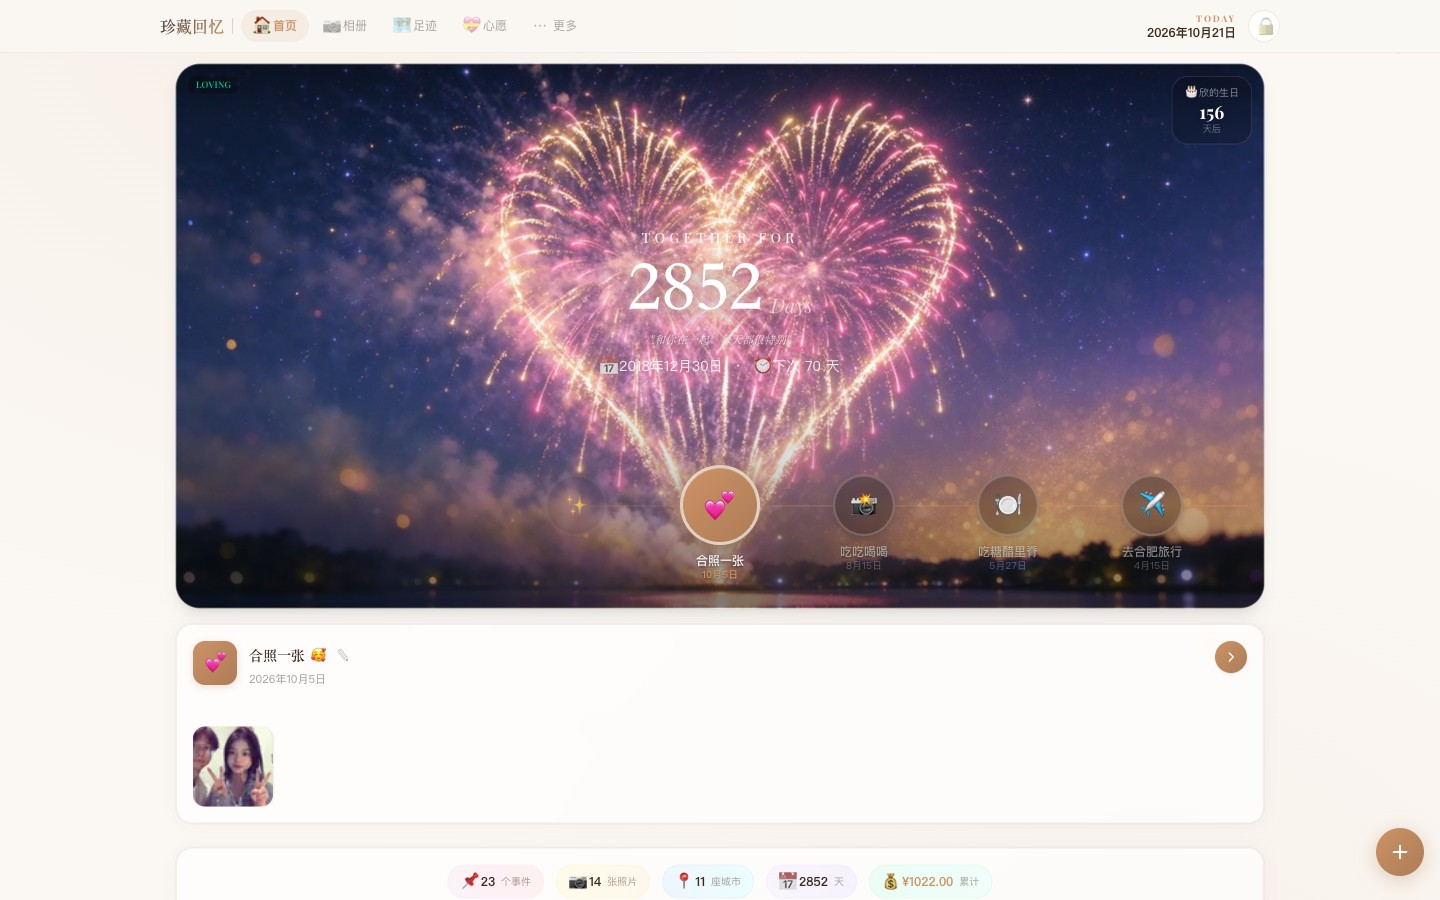
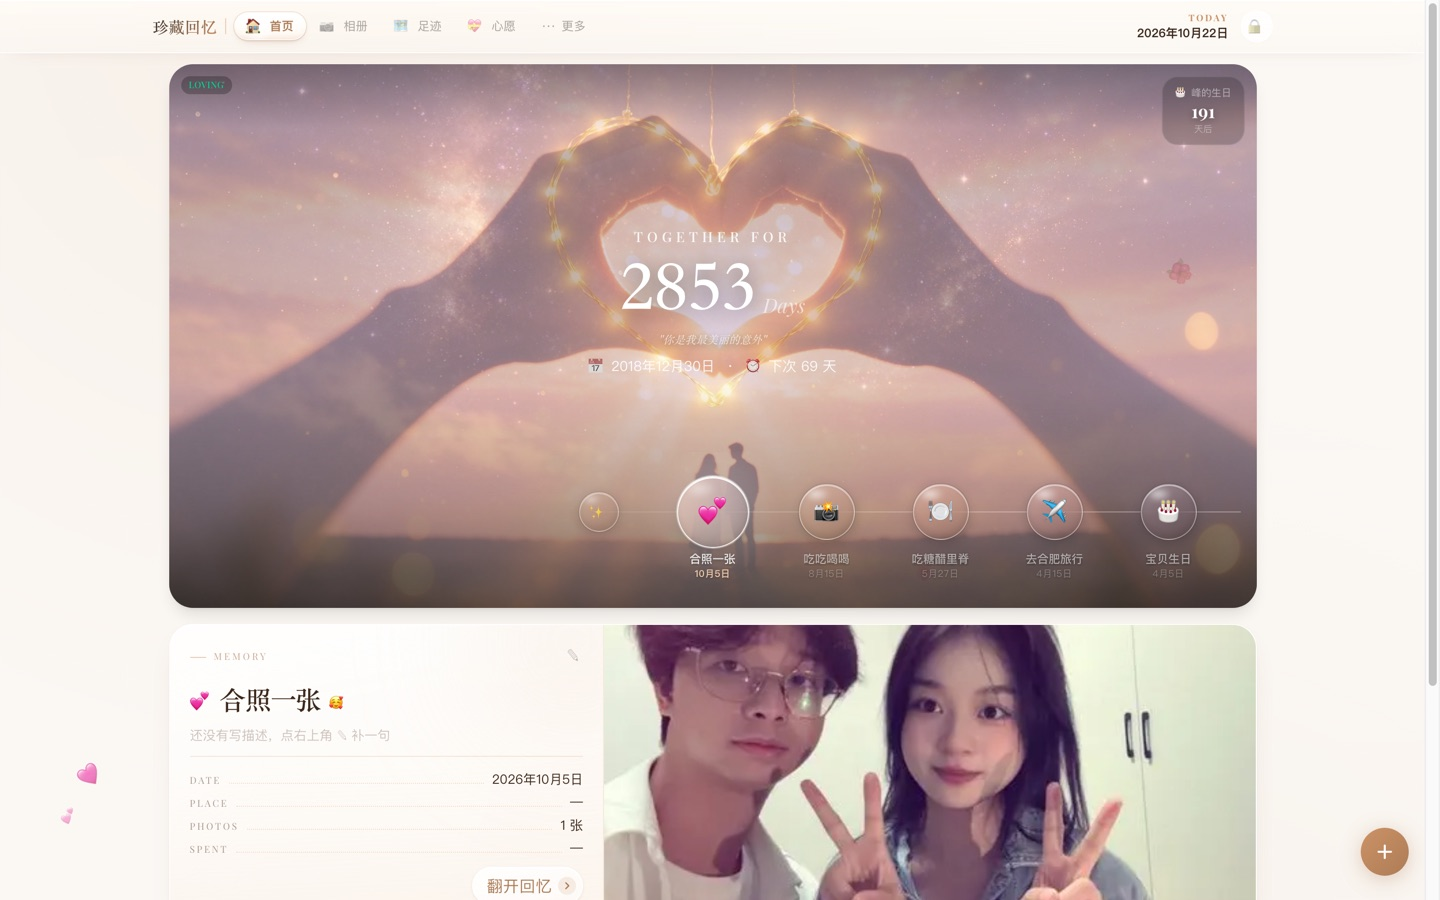
docs: 设计决策入库，补备份与回滚流程，首页截图换新版
- DESIGN-NOTES：新增第二~五轮（玻璃节点 / 卡片等高 / 弹窗 / 统计栏）决策记录，
  统计栏把被否掉的三版（一上一下 / 暖色渐变条 / 彩色方块）连同否决理由一起记下；
  补两处踩坑：mask 会建立 backdrop root 让 backdrop-filter 失效、
  伪元素高光会盖住 emoji
- AGENTS：部署章节补「备份与回滚」——三份快照 + 镜像回滚标签、
  rsync 先 -n 空跑核对删除清单、三档回滚命令、禁忌清单；
  记下这台机器只有连字符的 docker-compose，没有 docker compose 插件
- README 首页截图换成当前版本（390 / 1440）

diff --git a/docs/DESIGN-NOTES.md b/docs/DESIGN-NOTES.md
@@ -52,3 +52,150 @@
 - 存储决策：~~留 OSS~~ **2026-10-21 再改：迁 `public/hero/` 静态自托管**——产品视角下默认资产不能依赖作者私有 OSS，否则别人部署开箱即残缺；判断口诀追加："作为产品分发的默认资产→仓库，实例自己的数据→宿主存储"。OSS hero/ 副本已删，唯一真源=仓库
 - 无 OSS 降级：上传接口已自带本地落盘 fallback（`public/uploads/` + Next 静态服务 + docker 卷挂载），无 OSS 环境整站可用，无需改动
 - 旧 OSS 封面 `hero/1-6.jpg` 已由用户手动删除；线上设置里若隐藏过旧封面，URL 失配会全部重新显示，需在设置页重新隐藏
+
+## 首页时间轴节点 + 事件卡照片（2026-10-22 已改，未提交）
+
+用户对封面满意，只要求治两处：时间轴节点「有点 low」、事件卡照片「有时多有时少不好看」。以下为拍板口径。
+
+**时间轴（`components/HorizontalTimeline.tsx`）**
+
+- emoji **保留**——事件卡下面要放照片，节点里再放照片会重复（曾提议换照片/Lucide，被否）
+- 选中态：~~橙色渐变 + 3px 白边 + 24px 橙光 + pulse~~ → **暖白实底** `rgba(255,252,247,.94)` + 一圈 1px 白环 + 5px 淡光环；未选中：`rgba(255,255,255,.12)` + 1px `rgba(255,255,255,.22)`
+- 尺寸 56 / 72（原 62 / 80），emoji 24 / 30；过渡统一 `280ms cubic-bezier(.2,.8,.2,1)`，删掉无限 pulse
+- **节点槽固定 72px 高并垂直居中**——尺寸变化时下方文字基线不动（原来选中会把标题往下顶 9px）
+- 连接线：两根（1.5px 渐变 + 8px 模糊光晕）→ **单根 1px**，去掉光晕
+- 年份标记：橙色渐变圆 → **深色小药丸**（描边 + 半透明底），读作分隔而非事件
+- 轨道两端加 `.lm-edge-fade-x`（26px 遮罩淡出），暗示可滑
+
+**事件卡照片（`components/EventPreviewCard.tsx`）**
+
+首页只放「封面级」少量照片，其余交给相册。**所有格子 `object-cover`，只裁不拉伸**（"一大两小"方案因拉伸被否）。
+
+| 张数 | 移动端 | 桌面端 |
+|:--|:--|:--|
+| 0 | 虚线「添加照片」按钮 | 同左 |
+| 1 | 满宽 16:9 | 满宽 16:9，`max-h-300` 封顶 |
+| 2 | 对半 4:3 | 2 列 1:1 |
+| 3+ | 3 列 1:1，第 3 张盖 `+N` 角标 | 按张数自适应 1~4 列（4/5-6/7+ 分别 4/3/4 列），最多 7 张 |
+
+- 桌面端 n > 7 时第 8 格是「全部 N 张 / 查看相册 →」入口
+- 桌面端布局改为**左文右图**（左 36%，`md:justify-center` 垂直居中），移动端自动叠回单列
+- 列数按张数挑选，是为了避免"4 列铺满 + 最后一行只剩 1 格"的孤格
+
+## 第二轮：玻璃节点 / 卡片等高 / 两个弹窗（2026-10-22 已改，未提交）
+
+### 时间轴节点 = 磨砂玻璃（`HorizontalTimeline.tsx`）
+
+用户要的是**圆点**的玻璃感，不是卡片的。做法：多层白色渐变（左上薄→右下带一点暖黑）+ `backdrop-filter: blur(18-20px) saturate(1.6-1.85) brightness(0.98/1.14)` + 1px 亮边 + `inset 0 1px 0` 内高光 + 左下镜面高光点（`Glint`）。选中态靠 `brightness` 提亮而不是靠加白，所以照片颜色仍透得上来。
+
+- **踩坑**：祖先元素上有 `mask`（当时的 `.lm-edge-fade-x` 两端淡出）会让 Chrome 建立 backdrop root，`backdrop-filter` 采不到封面照片，圆点会变成纯色圆饼。已删掉遮罩。同理 `filter` / `opacity` 也会。
+- 年份标记改成**烟灰玻璃药丸**（深色低透明 + 白描边），在浅色和深色封面上都读得清。
+
+### 事件卡（`EventPreviewCard.tsx`）
+
+- **卡片等高**：照片面板改成固定高度（移动 172 / 桌面 300），不再用 `aspect-ratio`。1/2/3 张现在都是 322（移动）/ 302（桌面）。
+- 照片格**不留圆角、3px 缝**，外圈交给卡片 `overflow-hidden rounded-3xl` 裁 —— 整块照片"贴边"，比一格格小圆角更整体。
+- **末行补齐**：`n % 列数 !== 0` 时插入「查看相册 →」格，5 张 / 7 张不会再留一个白洞。
+- 左栏：眉标（MEMORY）→ 大标题（桌面 22px 衬线）→ 描述（桌面 3 行）→ **2×2 信息网格**（日期/地点/照片/花费）→ 查看详情。桌面端日期从眉标挪进网格，避免重复；移动端仍走顶部日期 + 底部 chips。
+- 卡片**没有**改成玻璃 —— 用户明确说那块不急。
+
+### 事件详情（`EventDetail.tsx`）
+
+- 头部图标从橙色实心渐变改成**暖色淡玻璃底**（低透明渐变 + 描边 + 内高光），标题 17px 衬线。
+- 照片格 `4:5 → 1:1`，三个散落的按钮收敛成：右上角一个 ✕ + 底部居中的 ‹ › 药丸（桌面 hover 才出，移动端常驻但更小）。
+- 账单标题与「+ 添加」按钮跟照片标题对齐同一套字号/胶囊样式。
+
+### 事件编辑（`EventModal.tsx`）
+
+- 图标选择器：横向滚动（20 个只能看到 6 个）→ **8 列网格全展开**，3 行看完；选中态从"橙色实心渐变 + scale-110"改成**白底 + 2px 描边 + 微阴影**，不跟 emoji 抢颜色。
+- 三个单行字段合成**一张表**（标签在左、输入在右、发丝分隔线），比三个"标签在上"的块省一半高度。
+- 心情 chips 同款选中态；弹窗宽度 `max-w-sm → max-w-md`。
+- `⛺` 补上 VS16 变 `⛺`，否则 Windows / 部分环境渲染成黑白字形。
+
+## 第三轮：透明度 / 选中光效 / 卡片与导航栏玻璃（2026-10-22 已改，未提交）
+
+### 节点再透一档
+
+关键认知：**「看起来像玻璃」和「真的透」是两件事**。上一版白渐变厚（0.32 起）+ `saturate(2) brightness(1.02)`，糊出来是个实色粉饼。这版把白色压到 0.26 → 0.06 → 暖黑 0.10，去掉 `brightness` 提亮，`saturate` 降到 1.25 —— 中间几乎全让给照片，只留边、内高光、反光点。
+
+- 选中态也**不靠加白**区分（0.24），靠**更亮的边 + 更大 + 呼吸光晕**。加白会立刻退回"奶白圆饼"。
+- 亮封面（日落、雪山）上白色边定不住形，所以未选中补了一道 `0 0 0 1px rgba(50,32,22,0.10)` 外圈暗边 —— 内亮外暗，才是真实玻璃的边。
+
+### 选中光效
+
+节点后面挂一个 `size + 62` 的暖白光晕（`radial-gradient` + `blur(8px)`），配 `@keyframes lm-breathe`（3.6s，opacity .6↔1，scale .93↔1.05）。幅度刻意压得很小，只负责"我在选中"的信号，不抢照片。`prefers-reduced-motion` 由全局 `[style*="animation"]` 规则接管。
+
+### 卡片 / 导航栏玻璃
+
+- `.lm-glass-panel`：白色渐变（0.78→0.50→0.58）+ `blur(18px) saturate(1.35)` + 1px 白边 + `inset 0 1px 0` 内高光 + 暖色投影。**不依赖背景内容**，所以放在纯色奶油底上也不会糊成一片——玻璃感由"亮边 + 内高光 + 顶部渐变"三个材质线索撑住。
+- `.lm-glass-bar-top` / `.lm-glass-bar-bottom`：上下导航栏。磨砂感靠内容滑过去才显出来（截图里能看到封面从顶栏下面透上来）。
+- 激活态：桌面导航从"淡橙底"改成**白色胶囊 + 1px 白 ring**；底部 tab 在图标后面加一颗 `bg-lm-accent/15` 的胶囊。
+- 顺手清掉 `NavBar` 里两处死 token `border-lm-clay/30`（clay 2026-10-19 就删了）。
+
+## 第四轮：选中胶囊 / 卡片左栏（2026-10-22 已改，未提交）
+
+### `.lm-glass-pill`（导航栏 + 底栏选中态）
+
+三条踩过的经验：
+
+1. **伪元素高光会盖住 emoji 和文字**。`::after` 是定位元素，即使 `z-index: 1` 也画在普通行内内容之上 —— 第一版胶囊里的 🏠 被糊成半透明。高光必须画在 `background` 的多层渐变里。
+2. **在浅色底上，「加白」只会变成塑料**。玻璃感只能靠三件事：左上镜面光（`radial-gradient`）、一道斜向高光（`linear-gradient(112deg)`）、由上到下由白转暖的**厚度渐变**（`#FFF → #FCEFE4`）。
+3. **光晕越宽越像糊了一层**。外阴影收成 `0 1px 2px` + `0 4px 10px -6px`，轮廓才立得住；外圈 `0 0 0 1px rgba(204,146,102,.20)` 定边。
+
+顶栏/底栏底色同时从 0.84 降到 0.76/0.78，胶囊的 `backdrop-filter` 才采得到东西。
+
+### 事件卡左栏
+
+- **根因是内容太短，不是排版太空**：真实描述只有 5–10 个字，永远一行，所以"三行引文"的设想从来没发生过。
+- 标题桌面端 22 → **26px**，信息栏行距 7 → 10px、值 12.5 → 13px，把空间用字号吃掉。
+- 信息栏从 **2×2 四宫格**改成**标签 · 点线 · 值**的列表（`border-dotted` 引导线 + 右对齐值），像一张手写标签，比表格耐看，也不再有"表单感"。
+- 描述左侧的暖色竖线**只在有描述时出现**——空占位旁边挂一根线像 bug。
+- 左栏加 `.lm-paper-panel`（极淡暖纸色，仅 md+）和一团 `bg-lm-blush/20` 的暖光，让左栏不是死白。
+- 移动端去掉 🖼 / 💰 两个 UI emoji 胶囊，换成 `3 张照片 · ¥520` 纯文字（UI emoji 比事件 emoji 更容易显廉价）。
+
+### 文案
+
+「查看详情」→ **「翻开回忆」**（配 `MEMORY` 眉标，动词开头，和"回忆"主题一致）。备选：`走进那天` / `翻开这段回忆`。
+
+## 第五轮：移动端卡片等高 + 统计栏重做（2026-10-22 已改，未提交）
+
+### 移动端卡片为什么忽高忽低
+
+两个变量：**有没有花费**（多一行 28px）、**描述一行还是两行**（差 21px）。桌面端早就不受影响，因为卡片是 `md:h-[300px]` 写死的，移动端一直是自然高度。
+
+解法：
+
+- 底部元信息行**常驻**，没有花费时只显示「N 张照片」，有花费才加 `· ¥xx`
+- 左栏 `min-h-[156px]`（`md:min-h-0`），多出来的空间交给**描述块** `flex-1` + `items-center` 吃掉
+
+第二条是关键。直接把左栏定高、元信息行 `mt-auto` 顶到底，会在描述和元信息之间留一条 40px 的空洞；让描述块自己撑开并垂直居中，空白就均分到上下两侧，读起来是留白而不是"缺了东西"。
+
+实测 5 个事件（有/无花费、有/无描述、1~3 张照片）现在全是 **330px**。
+
+### 统计栏（`StatsSection.tsx`）
+
+原来 5 个彩色渐变胶囊（粉/琥珀/蓝/紫/翠绿），跟整套暖色 + 玻璃完全不搭。
+
+**被否掉的三版**（记下来，别再走一遍）：
+
+| 版本 | 做法 | 否决理由 |
+|:--|:--|:--|
+| a | 四格数字 + 底下单独一行 SPENT | 「数字一上一下的有点怪」，读起来像两条信息 |
+| b | 一块暖色渐变条把四格包进去 | 白边太硬、跟上面那张卡完全不搭（「真的很丑」） |
+| c | 四个彩色渐变方块 | 「几个色块太丑了点，完全不搭」 |
+
+**最终版：不铺色、不做卡片，做成一条编辑排版式的数据行**，跟上面那张卡共用一套语言。
+
+- 眉标 `— In numbers`，后面接一条渐隐到右边缘的发丝线 —— 报头感，不再是孤零零一个小标题
+- 四个 9px 的**四角刻线**当画框（印刷套准角标），比整圈描边轻，但一眼看得出「被框住了」
+- 顶部一层 `radial-gradient` 暖光晕（13% → 0），让这条从米色底上浮起来，不发平
+- 每格上方一行 7px 衬线**微编号** `01–04`（`accent-deep/30`），排版的索引感来源
+- 竖分隔用**上下渐隐的发丝线**（`via-lm-line`），比虚点轻，也不跟卡片里的点线引导线抢
+- 数字 Playfair + `tabular-nums`，26px（移动）/ 34px（桌面）；标签沿用卡片里的英文小字眉标（8px，`tracking-[0.24em]`）
+- **第四格是累计花费**：封面上 2853 Days 已经是主角，不重复；没有账单时退回天数，标签改 `Days`，不留空格
+- `¥` 用 `0.52em` 靠基线 + `accent-deep/65`，让符号退到数字后面
+
+**顺带修的两个 bug**
+
+- `AnimatedNumber` 的初值写成了 `value`，`diff === 0` 直接 `return` —— **首屏根本不会数上去**。改成从 0 起跳。
+- ref 只在动画结束时落定，中途被打断不会把起点写成终点。这就是「主页天数有时候变成 0」的根因（`useAnimatedNum` 同一处反模式，一并修了）。

diff --git a/AGENTS.md b/AGENTS.md
@@ -120,6 +120,40 @@ curl -fsS https://lovexin.felixfeng.online/api/health
 > `ssh ali1 'echo "APP_SECRET=$(openssl rand -hex 32)" >> /data/app/love-memory/.env.production'`
 > 不配也能跑（回退用 PIN 签名并打告警），但配上后 PIN 泄露不会波及已签发 token。注意：配好后旧 token 全部失效，用户需重输一次 PIN。
 
+### 备份与回滚（2026-10-22 补）
+
+**部署前必须备份**，三份快照 + 一个镜像标签，成本几十秒：
+
+```bash
+TS=$(date +%Y%m%d-%H%M%S)
+ssh ali1 "
+  set -e; mkdir -p /data/backups; cd /data/app/love-memory
+  tar czf /data/backups/lm-src-\$TS.tar.gz --exclude=node_modules --exclude=.next --exclude=data --exclude=public/uploads .
+  tar czf /data/backups/lm-data-\$TS.tar.gz data            # WAL 三个文件必须一起，否则丢最近写入
+  tar czf /data/backups/lm-uploads-\$TS.tar.gz public/uploads
+  docker tag love-memory-app:latest love-memory-app:rollback-\$TS
+"
+```
+
+**rsync 先 `-n` 空跑一遍**，确认「将被删除」清单里只有构建产物和过期文件，再去掉 `n` 真跑。`--delete` 配错排除项是唯一能一次性毁掉线上数据的操作。
+
+回滚分三档，按出问题的层次选：
+
+```bash
+# 1) 代码（改错文案、某页白屏）
+ssh ali1 'cd /data/app/love-memory && tar xzf /data/backups/lm-src-<TS>.tar.gz && docker-compose up -d --build'
+
+# 2) 镜像（新镜像起不来，要最快恢复）
+ssh ali1 'cd /data/app/love-memory && docker tag love-memory-app:rollback-<TS> love-memory-app:latest && docker-compose up -d --no-build'
+
+# 3) 数据（误删事件/照片）—— 会丢掉备份点之后的所有写入，先确认再执行
+ssh ali1 'cd /data/app/love-memory && docker-compose stop && rm -rf data && tar xzf /data/backups/lm-data-<TS>.tar.gz && docker-compose start'
+```
+
+**禁忌**：`docker-compose down -v`（删数据卷）、`docker image prune -a` / `docker system prune -a`（波及同机其他项目）、不带排除项的 `rsync --delete`、在 `/data/app/love-memory` 之外执行 compose 命令。
+
+> `docker compose`（空格、插件形式）**在这台机器上不可用**，只有连字符的 `docker-compose`（`/usr/local/bin/docker-compose`，v2.24.1 独立版）。别照着别处的文档写成空格形式。
+
 ### 服务器事实
 
 - `ssh ali1` → `root@47.121.181.198`（2核2G，云盘 40G）
